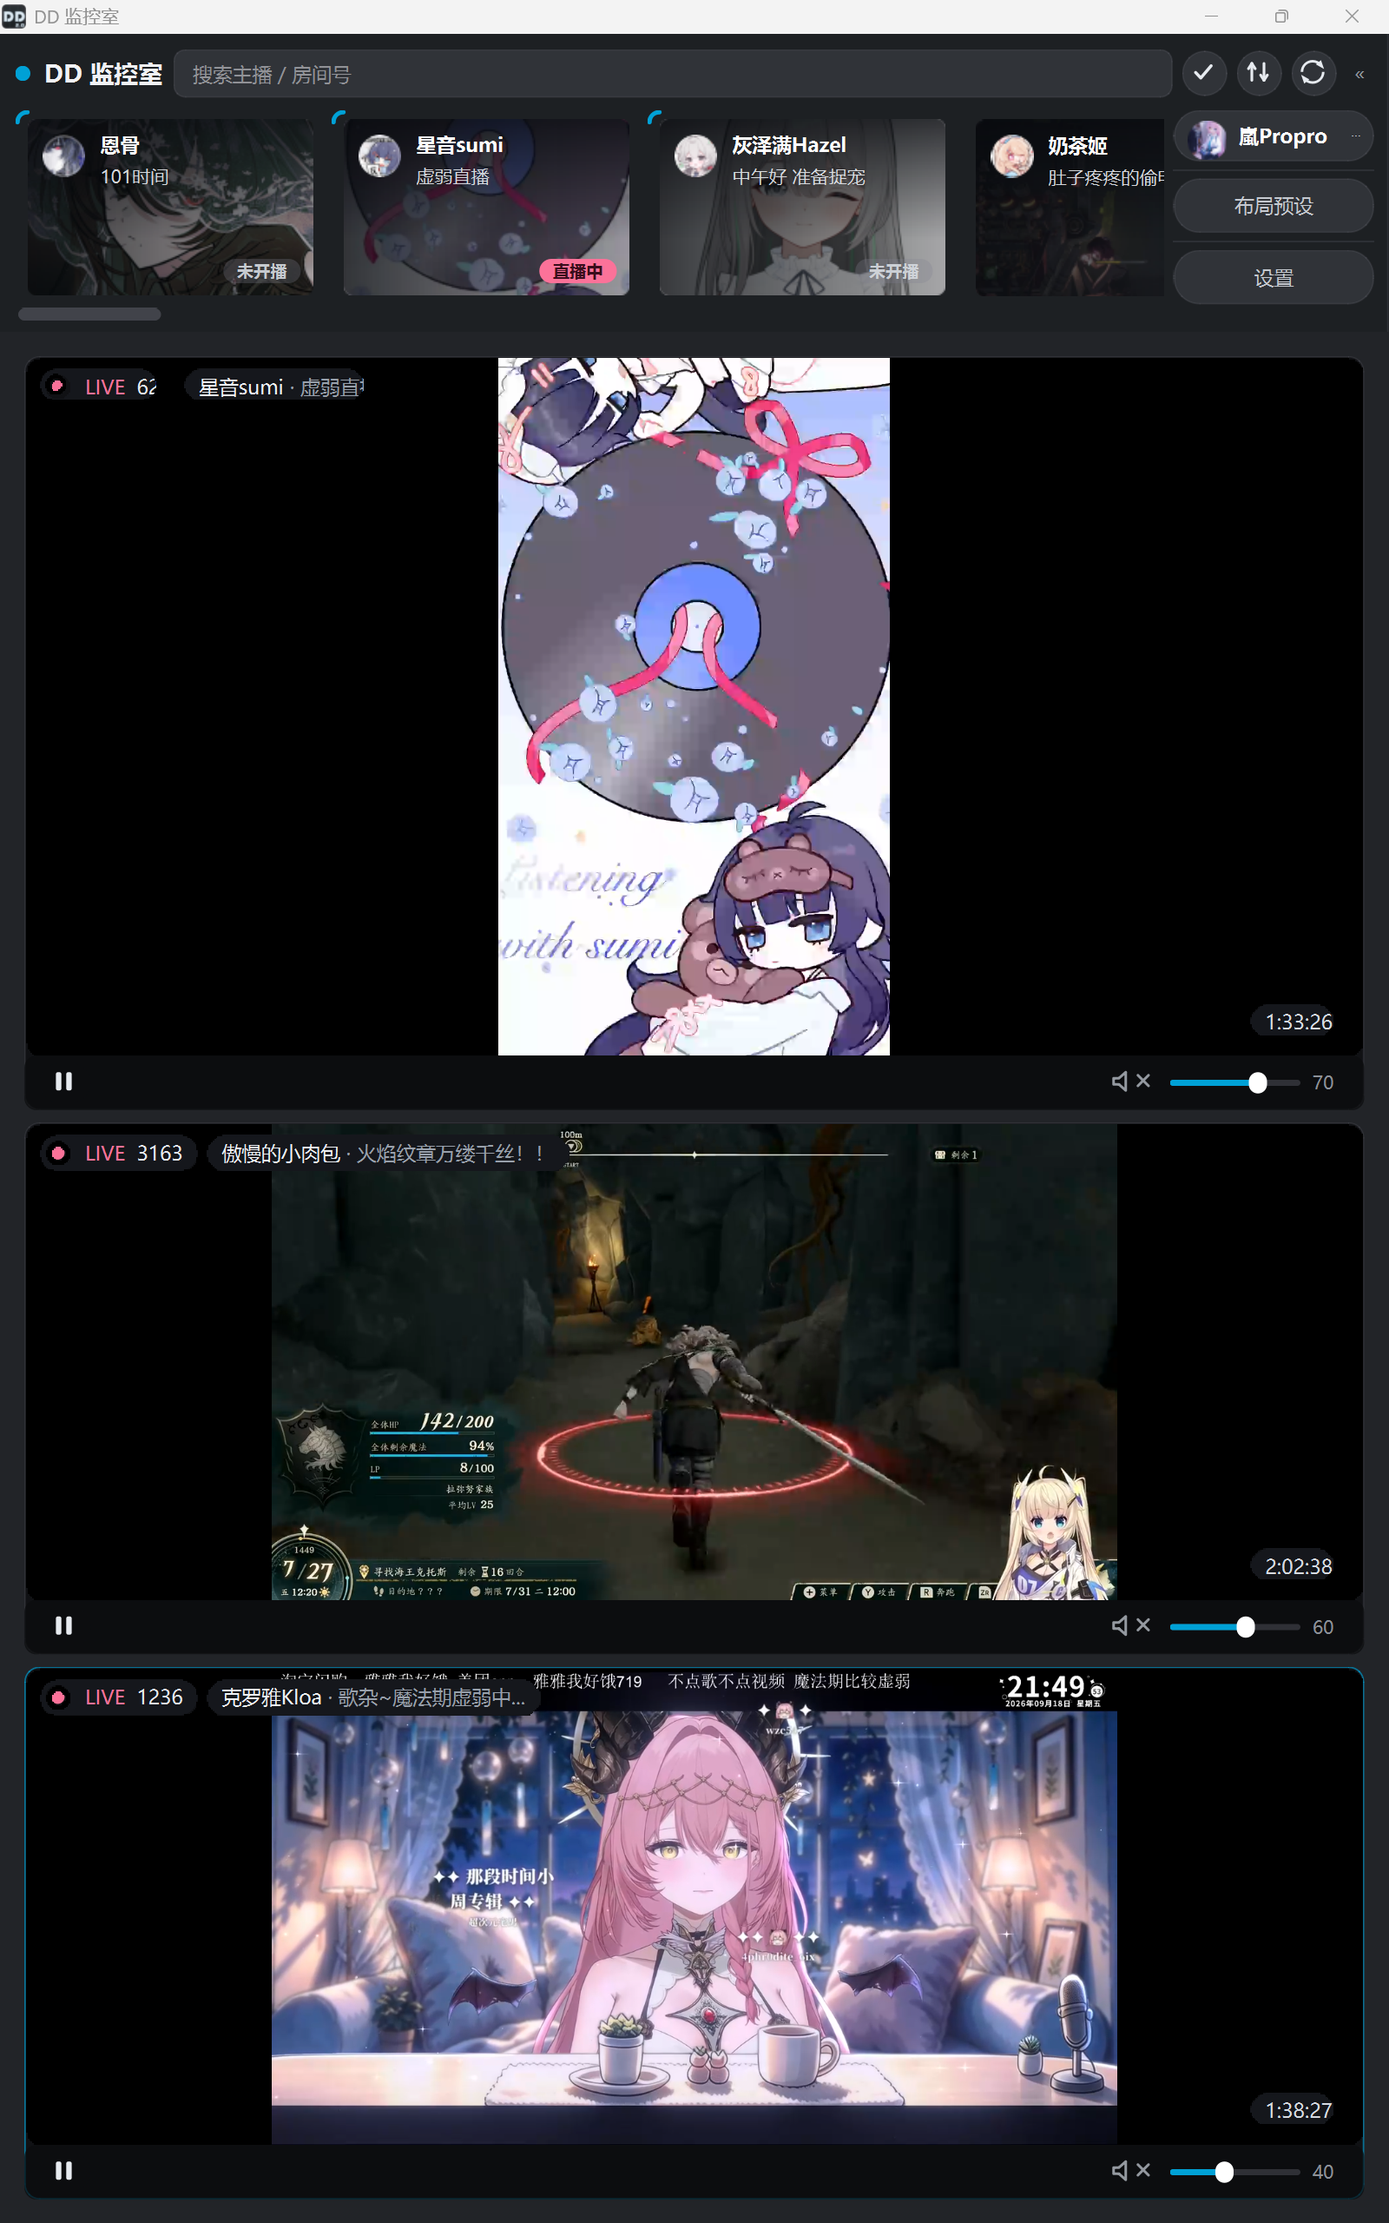
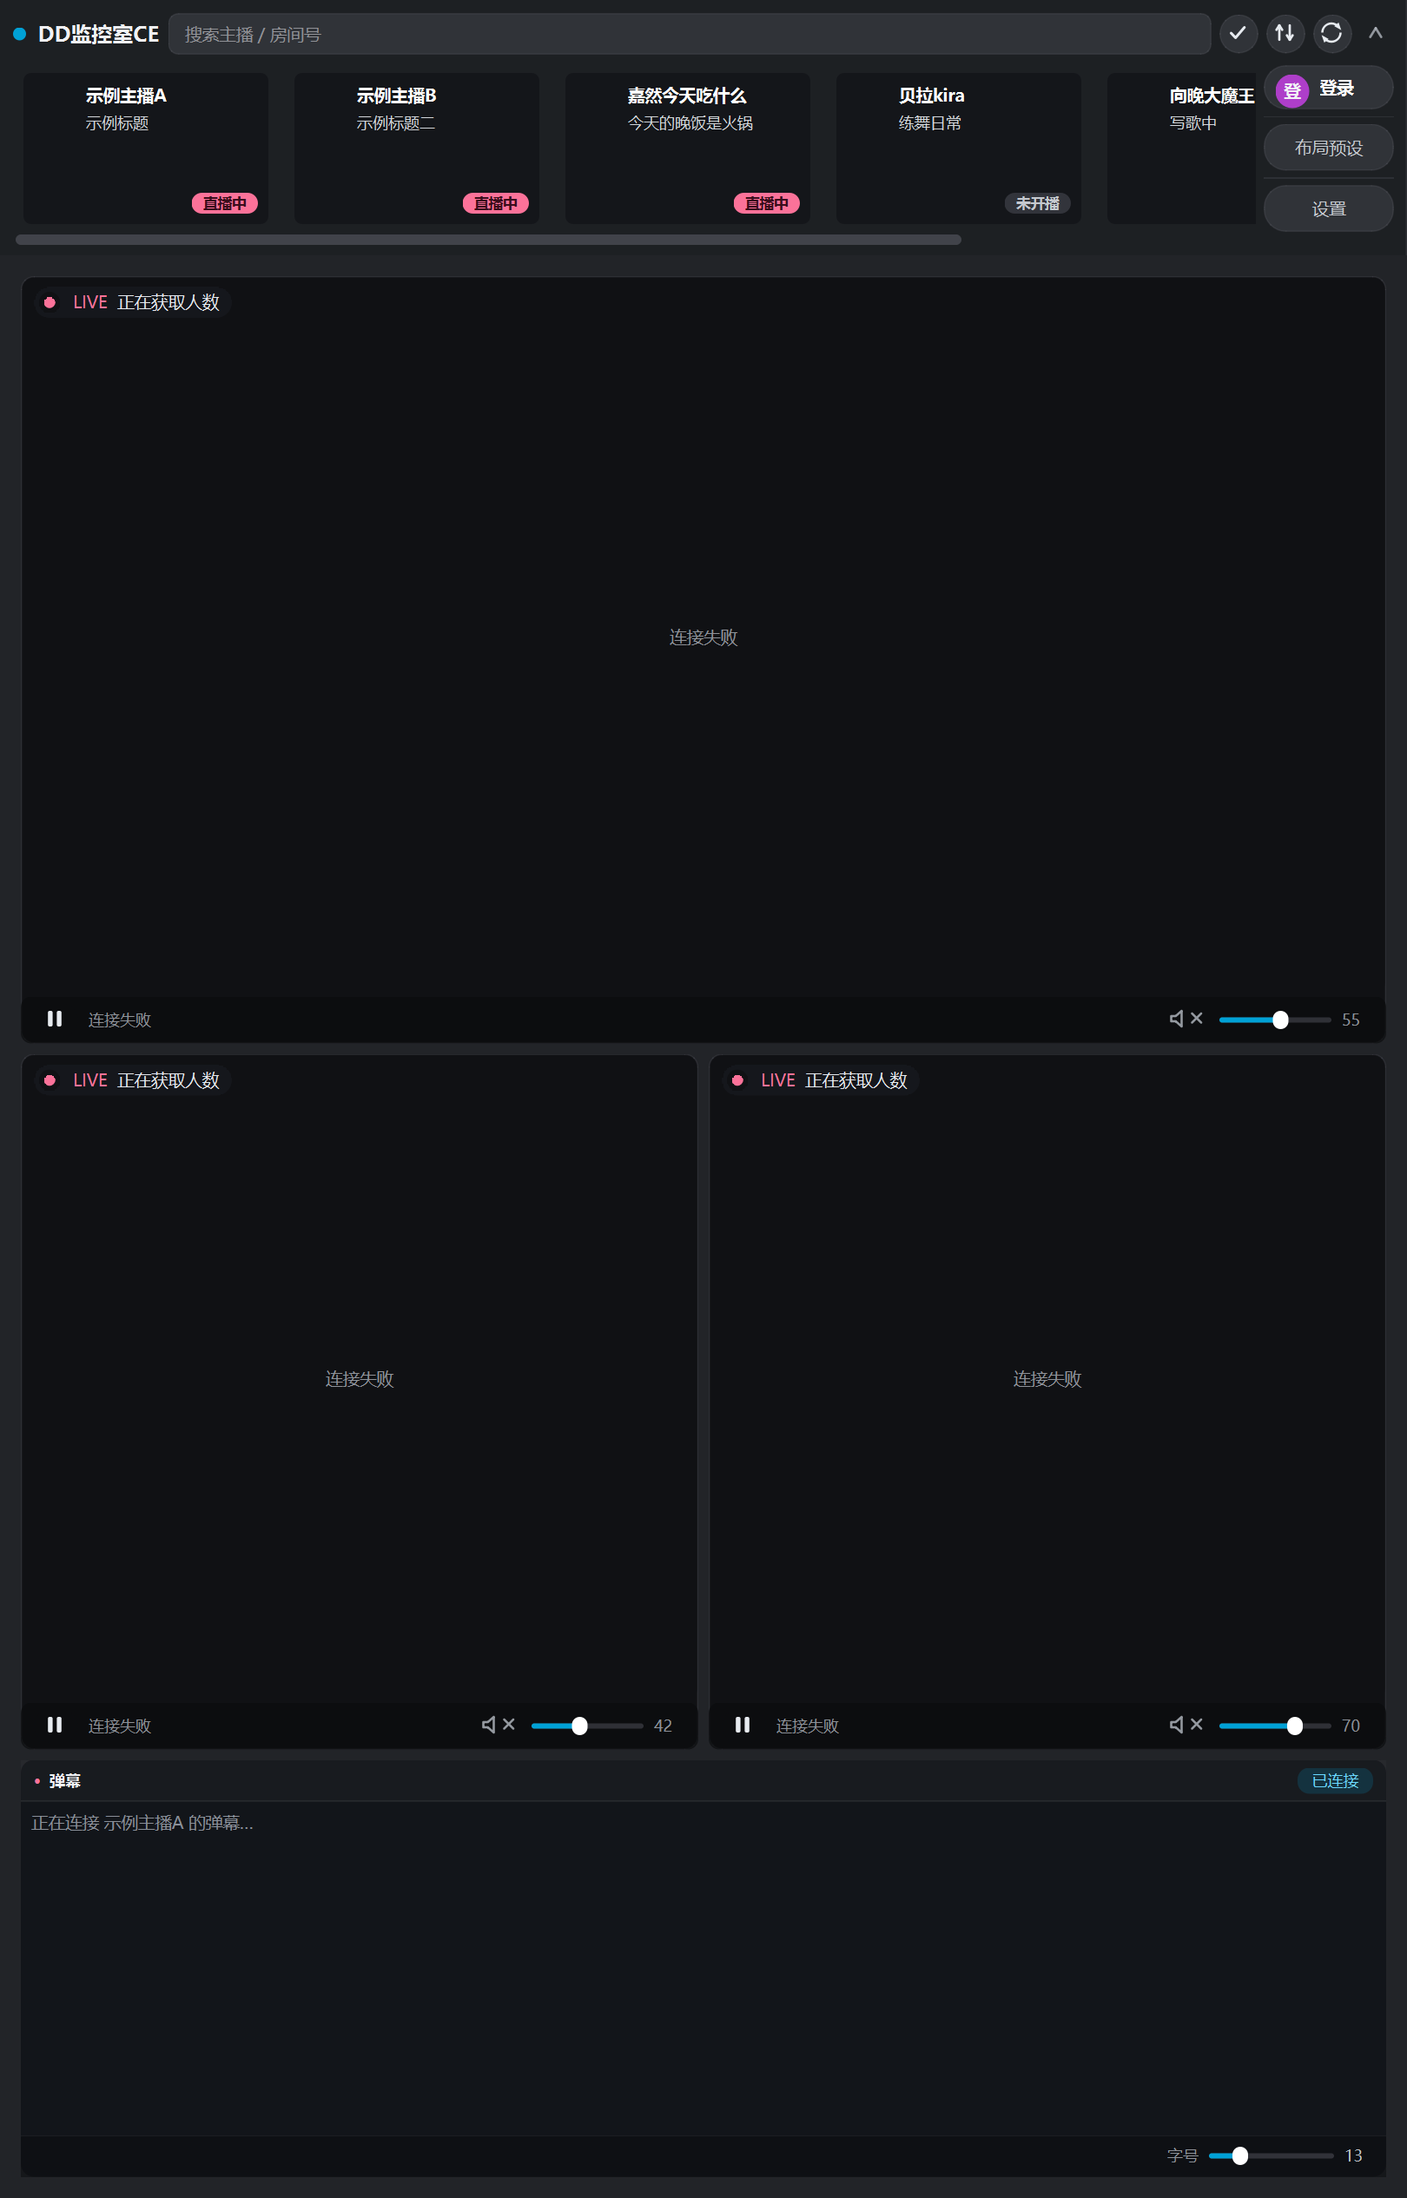
chore(privacy): 上传前清掉测试用的真实直播间/账号名，并把真人截图换成中性样例
用户要求 push 前删掉测试直播间和账号凭证。凭证本来就不在版本库里（utils/config.json 从没被跟踪或提交过，已核查 git ls-files 与 git log --all），要清的是当样例用的真实房间号（6154037 等）、主播名/账号名/直播标题：23 个跟踪文件 + mock_portrait2.py / selfcheck_portrait.py / idea.txt 全换成中性占位（示例主播A…、示例标题…、1001…1004）。

docs 里三张真人客户端截图（overview1/2_*_mode.png）和 portrait-current.png 删掉，改用中性样例重新渲染成同样文件名（README 的引用不用改）；提交信息里也没有这类数据。

diff --git a/dev/mock_portrait2.py b/dev/mock_portrait2.py
@@ -35,8 +35,8 @@ ROUND = 10
 CTRL_BAR = 36          # 画面里的底部信息条
 
 ROOMS = [
-    ("Asaki大人", "玩玩战狗", True, "2.1万"),
-    ("七海Nana7mi", "最后练一次大米", True, "1.8万"),
+    ("示例主播A", "示例标题", True, "2.1万"),
+    ("示例主播B", "最后练一次大米", True, "1.8万"),
     ("嘉然今天吃什么", "晚饭是火锅", True, "6.1万"),
     ("贝拉kira", "练舞日常", False, ""),
     ("向晚大魔王", "写歌中", True, "9.4万"),
@@ -44,9 +44,9 @@ ROOMS = [
 ]
 
 DM_LINES = [
-    ("ASAKI 26", "安***", "哈哈哈哈，尖鼻位置很危险，要被炸了"),
+    ("示例账号 26", "安***", "哈哈哈哈，尖鼻位置很危险，要被炸了"),
     ("", "燕云冷墨", "传说炮手"),
-    ("ASAKI 27", "幸运值MAX", "打咩"),
+    ("示例账号 27", "幸运值MAX", "打咩"),
     ("", "小***", "冲鸭"),
 ]
 
@@ -125,7 +125,7 @@ def tile(painter, rect: QRect, index: int, label: str, big: bool = False) -> Non
     if big:
         title = QRect(badge.right() + 8, y, min(430, rect.width() - 300), 26)
         pill(painter, title, QColor(12, 13, 16, 205))
-        text(painter, title.adjusted(12, 0, -10, 0), "Asaki大人 · 玩玩战狗", 14, theme.TEXT2)
+        text(painter, title.adjusted(12, 0, -10, 0), "示例主播A · 示例标题", 14, theme.TEXT2)
         x = rect.right() - 9
         for label_text, width in (("×", 26), ("⟳", 32), ("原画", 74)):
             x -= width
@@ -209,7 +209,7 @@ def topbar_collapsed(painter, rect: QRect) -> None:
         if x + 34 > row.right() - 40:
             break
         avatar(painter, QRect(x, row.top() + 1, 34, 34), name[0], live,
-               pinned=(name.startswith("Asaki")))
+               pinned=(name.startswith("示例账号")))
         x += 42
     text(painter, QRect(row.right() - 34, row.top(), 34, row.height()), "≫", 18,
          theme.TEXT3, align=Qt.AlignCenter)
@@ -226,7 +226,7 @@ def topbar_expanded(painter, rect: QRect) -> None:
         if x + 34 > strip.right() - 40:
             break
         avatar(painter, QRect(x, strip.top() + 1, 34, 34), name[0], live,
-               pinned=(name.startswith("Asaki")))
+               pinned=(name.startswith("示例账号")))
         x += 42
     text(painter, QRect(strip.right() - 34, strip.top(), 34, strip.height()), "≪", 18,
          theme.TEXT3, align=Qt.AlignCenter)

diff --git a/dev/selfcheck_offline_badges.py b/dev/selfcheck_offline_badges.py
@@ -38,11 +38,11 @@ def boom(room_id, quality=250):        # noqa: ANN001, ANN201
 
 
 ROOMS = [
-    {"room_id": "1001", "uname": "Asaki大人", "title": "随便玩玩战狗", "live": True,
+    {"room_id": "1001", "uname": "示例主播A", "title": "示例直播标题", "live": True,
      "viewers": "3.1万", "muted": True, "quality": 250, "live_start_ts": int(time.time()) - 600},
-    {"room_id": "1002", "uname": "七海Nana7mi", "title": "和队友最后练一次大米", "live": True,
+    {"room_id": "1002", "uname": "示例主播B", "title": "示例标题二", "live": True,
      "viewers": "1.8万", "muted": True, "quality": 250, "live_start_ts": int(time.time()) - 300},
-    {"room_id": "1003", "uname": "烛不遥", "title": "看新三国吐槽——", "live": True,
+    {"room_id": "1003", "uname": "示例主播C", "title": "示例标题三", "live": True,
      "viewers": "6.1万", "muted": True, "quality": 250, "live_start_ts": int(time.time()) - 900},
 ]
 
@@ -145,7 +145,7 @@ def main() -> None:
     started: list = []
     original_start = window.start_tile
     window.start_tile = lambda t, _o=original_start, _s=started: (_s.append(t), _o(t))[1]
-    status = {"1001": {"live": True, "title": "随便玩玩战狗", "uname": "Asaki大人",
+    status = {"1001": {"live": True, "title": "示例直播标题", "uname": "示例主播A",
                        "viewers": "2万", "face": ""}}
     window._on_status_updated(status)
     settle(app, 0.6)

diff --git a/dev/preview_danmaku.py b/dev/preview_danmaku.py
@@ -37,16 +37,16 @@ OUT = os.path.join(REPO, "work", "preview")
 NOW = int(time.time())
 
 ROOMS = [
-    {"room_id": "6154037", "uname": "Asaki大人", "title": "随便玩玩战狗", "live": True,
+    {"room_id": "1001", "uname": "示例主播A", "title": "示例直播标题", "live": True,
      "viewers": "3.1万", "online": "7124", "muted": True, "volume": 55,
      "live_start_ts": NOW - 4512},
-    {"room_id": "21452505", "uname": "七海Nana7mi", "title": "和队友最后练一次大米",
+    {"room_id": "1002", "uname": "示例主播B", "title": "示例标题二",
      "live": True, "viewers": "1.8万", "online": "2288", "muted": True, "volume": 42,
      "live_start_ts": NOW - 890},
-    {"room_id": "26376408", "uname": "烛不遥", "title": "看新三国吐槽——", "live": True,
+    {"room_id": "1003", "uname": "示例主播C", "title": "示例标题三", "live": True,
      "viewers": "6.1万", "online": "1043", "muted": True, "volume": 70,
      "live_start_ts": NOW - 12800},
-    {"room_id": "22603245", "uname": "永雏塔菲", "title": "守望先锋（9）", "live": True,
+    {"room_id": "1004", "uname": "示例主播D", "title": "示例标题四", "live": True,
      "viewers": "9.4万", "online": "5602", "muted": True, "volume": 36,
      "live_start_ts": NOW - 305},
 ]

diff --git a/dev/preview_new.py b/dev/preview_new.py
@@ -16,13 +16,13 @@ from ddm.widgets import LayoutPicker  # noqa: E402
 OUT = os.path.join(REPO, "dev", "preview")
 
 SAMPLE = [
-    {"room_id": "6154037", "uname": "Asaki大人", "title": "玩玩战狗", "live": True,
+    {"room_id": "1001", "uname": "示例主播A", "title": "示例标题", "live": True,
      "viewers": "3.1万", "muted": True},
-    {"room_id": "21452505", "uname": "七海Nana7mi", "title": "和队友最后练一次大米",
+    {"room_id": "1002", "uname": "示例主播B", "title": "示例标题二",
      "live": True, "viewers": "1.8万", "muted": True},
-    {"room_id": "26376408", "uname": "烛不遥", "title": "看新三国吐槽——", "live": True,
+    {"room_id": "1003", "uname": "示例主播C", "title": "示例标题三", "live": True,
      "viewers": "6千", "muted": True},
-    {"room_id": "22603245", "uname": "永雏塔菲", "title": "守望先锋/鬼武者（9）", "live": False,
+    {"room_id": "1004", "uname": "示例主播D", "title": "守望先锋/鬼武者（9）", "live": False,
      "muted": True},
     {"room_id": "56237", "uname": "还有醒着的么", "title": "一起英灵神殿开尼2！", "live": False,
      "muted": True},

diff --git a/dev/selfcheck_danmaku.py b/dev/selfcheck_danmaku.py
@@ -64,9 +64,9 @@ class FakeImageLoader(QThread):
 
 
 ROOMS = [
-    {"room_id": "1001", "uname": "Asaki大人", "title": "随便玩玩战狗", "live": True,
+    {"room_id": "1001", "uname": "示例主播A", "title": "示例直播标题", "live": True,
      "muted": True, "quality": 250},
-    {"room_id": "1002", "uname": "七海Nana7mi", "title": "练习", "live": True,
+    {"room_id": "1002", "uname": "示例主播B", "title": "练习", "live": True,
      "muted": True, "quality": 250},
 ]
 
@@ -163,7 +163,7 @@ def main() -> None:
     assert panel.count.property("state") == "connected"
 
     print("\n=== 2. 收到消息会进面板（弹幕 / 礼物 / SC 上色）===")
-    client.message.emit({"kind": "danmaku", "uname": "Asaki大人", "text": "今天的直播好看",
+    client.message.emit({"kind": "danmaku", "uname": "示例主播A", "text": "今天的直播好看",
                          "medal": {"name": "绿冻", "level": "10", "color": "#8d8366"}})
     client.message.emit({"kind": "gift", "uname": "路人甲", "text": "投喂 辣条 ×2"})
     client.message.emit({"kind": "super_chat", "uname": "老板", "text": "¥30　加油"})

diff --git a/dev/preview_ui3.py b/dev/preview_ui3.py
@@ -16,13 +16,13 @@ OUT = os.path.join(REPO, "dev", "preview")
 NOW = int(time.time())
 
 ROOMS = [
-    {"room_id": "6154037", "uname": "Asaki大人", "title": "玩玩战狗", "live": True,
+    {"room_id": "1001", "uname": "示例主播A", "title": "示例标题", "live": True,
      "viewers": "3.1万", "muted": True, "volume": 55, "live_start_ts": NOW - 4512},
-    {"room_id": "21452505", "uname": "七海Nana7mi", "title": "和队友最后练一次大米",
+    {"room_id": "1002", "uname": "示例主播B", "title": "示例标题二",
      "live": True, "viewers": "1.8万", "muted": True, "volume": 42, "live_start_ts": NOW - 890},
-    {"room_id": "26376408", "uname": "烛不遥", "title": "看新三国吐槽——", "live": True,
+    {"room_id": "1003", "uname": "示例主播C", "title": "示例标题三", "live": True,
      "viewers": "6.1万", "muted": True, "volume": 70, "live_start_ts": NOW - 12800},
-    {"room_id": "22603245", "uname": "永雏塔菲", "title": "守望先锋（9）", "live": False,
+    {"room_id": "1004", "uname": "示例主播D", "title": "示例标题四", "live": False,
      "muted": True},
 ]
 

diff --git a/dev/preview_settings.py b/dev/preview_settings.py
@@ -19,9 +19,9 @@ OUT = os.path.join(REPO, "work", "preview")
 NOW = int(time.time())
 
 ROOMS = [
-    {"room_id": "6154037", "uname": "Asaki大人", "title": "随便玩玩战狗", "live": True,
+    {"room_id": "1001", "uname": "示例主播A", "title": "示例直播标题", "live": True,
      "viewers": "3.1万", "muted": True, "volume": 55, "live_start_ts": NOW - 4512},
-    {"room_id": "21452505", "uname": "七海Nana7mi", "title": "和队友最后练一次大米",
+    {"room_id": "1002", "uname": "示例主播B", "title": "示例标题二",
      "live": True, "viewers": "1.8万", "online": "2288", "muted": True, "volume": 42,
      "live_start_ts": NOW - 890},
 ]
@@ -94,7 +94,7 @@ def main() -> None:
     print("已保存 wall_status.png")
 
     # 收起侧栏：头像要居中
-    window.sidebar.set_account("Asaki大人")
+    window.sidebar.set_account("示例主播A")
     window.sidebar.set_collapsed(True, animate=False)
     settle(app, 0.6)
     window.sidebar.grab().save(os.path.join(OUT, "sidebar_rail.png"), "PNG")

diff --git a/dev/preview_badge.py b/dev/preview_badge.py
@@ -16,13 +16,13 @@ from ddm.images import load_pixmap  # noqa: E402
 OUT = os.path.join(REPO, "dev", "preview")
 
 ROOMS = [
-    {"room_id": "6154037", "uname": "Asaki大人", "title": "玩玩战狗", "live": True,
+    {"room_id": "1001", "uname": "示例主播A", "title": "示例标题", "live": True,
      "viewers": "54.4万", "muted": True},
-    {"room_id": "21452505", "uname": "七海Nana7mi", "title": "和队友最后练一次大米",
+    {"room_id": "1002", "uname": "示例主播B", "title": "示例标题二",
      "live": True, "viewers": "12.8万", "muted": True},
-    {"room_id": "26376408", "uname": "烛不遥", "title": "看新三国吐槽——", "live": True,
+    {"room_id": "1003", "uname": "示例主播C", "title": "示例标题三", "live": True,
      "viewers": "6.1万", "muted": True},
-    {"room_id": "22603245", "uname": "永雏塔菲", "title": "守望先锋（9）", "live": False,
+    {"room_id": "1004", "uname": "示例主播D", "title": "示例标题四", "live": False,
      "muted": True},
 ]
 

diff --git a/dev/selfcheck_settings_status.py b/dev/selfcheck_settings_status.py
@@ -36,9 +36,9 @@ class SilentPoller(QThread):
 
 
 ROOMS = [
-    {"room_id": "1001", "uname": "Asaki大人", "title": "随便玩玩战狗", "live": True,
+    {"room_id": "1001", "uname": "示例主播A", "title": "示例直播标题", "live": True,
      "viewers": "3.1万", "muted": True, "quality": 250},
-    {"room_id": "1002", "uname": "七海Nana7mi", "title": "和队友最后练一次大米", "live": True,
+    {"room_id": "1002", "uname": "示例主播B", "title": "示例标题二", "live": True,
      "viewers": "1.8万", "muted": True, "quality": 250},
 ]
 
@@ -221,7 +221,7 @@ def main() -> None:
 
     print("\n=== 4. 侧栏收起后头像居中、底部还能看到账号 ===")
     sidebar = window.sidebar
-    sidebar.set_account("Asaki大人")
+    sidebar.set_account("示例主播A")
     item = sidebar.items()[0]
     face_pixmap = QPixmap(64, 64)
     face_pixmap.fill(QColor("#fb7299"))

diff --git a/dev/preview_portrait.py b/dev/preview_portrait.py
@@ -33,9 +33,9 @@ os.makedirs(OUT, exist_ok=True)
 
 # 假房间足够多，才能看出侧栏在竖屏里占多少、列表还能不能读
 ROOMS = [
-    {"room_id": "6154037", "uname": "Asaki大人", "title": "玩玩战狗", "live": True,
+    {"room_id": "1001", "uname": "示例主播A", "title": "示例标题", "live": True,
      "viewers": "3.1万", "muted": True, "quality": 250, "volume": 55},
-    {"room_id": "21452505", "uname": "七海Nana7mi", "title": "和队友最后练一次大米",
+    {"room_id": "1002", "uname": "示例主播B", "title": "示例标题二",
      "live": True, "viewers": "1.8万", "muted": True, "quality": 250, "volume": 42},
     {"room_id": "22637261", "uname": "嘉然今天吃什么", "title": "今天的晚饭是火锅",
      "live": True, "viewers": "6.1万", "muted": True, "quality": 250, "volume": 70},

diff --git a/dev/selfcheck_delete.py b/dev/selfcheck_delete.py
@@ -13,11 +13,11 @@ from ddm import theme  # noqa: E402
 from ddm.app import MainWindow  # noqa: E402
 
 ROOMS = [
-    {"room_id": "6154037", "uname": "Asaki大人", "title": "玩玩战狗", "live": True,
+    {"room_id": "1001", "uname": "示例主播A", "title": "示例标题", "live": True,
      "viewers": "3.1万", "muted": True},
-    {"room_id": "21452505", "uname": "七海Nana7mi", "title": "练大米", "live": True,
+    {"room_id": "1002", "uname": "示例主播B", "title": "练大米", "live": True,
      "viewers": "1.8万", "muted": True},
-    {"room_id": "26376408", "uname": "烛不遥", "title": "吐槽", "live": True,
+    {"room_id": "1003", "uname": "示例主播C", "title": "吐槽", "live": True,
      "viewers": "6千", "muted": True},
 ]
 

diff --git a/dev/selfcheck_preview.py b/dev/selfcheck_preview.py
@@ -56,11 +56,11 @@ class SilentPoller(QThread):
 
 
 ROOMS = [
-    {"room_id": "1001", "uname": "Asaki大人", "title": "随便玩玩战狗", "live": True,
+    {"room_id": "1001", "uname": "示例主播A", "title": "示例直播标题", "live": True,
      "viewers": "3.1万", "muted": True, "quality": 250},
-    {"room_id": "1002", "uname": "七海Nana7mi", "title": "练习", "live": True,
+    {"room_id": "1002", "uname": "示例主播B", "title": "练习", "live": True,
      "muted": True, "quality": 250},
-    {"room_id": "1003", "uname": "永雏塔菲", "title": "没在播", "live": False,
+    {"room_id": "1003", "uname": "示例主播D", "title": "没在播", "live": False,
      "muted": True, "quality": 250},
 ]
 
